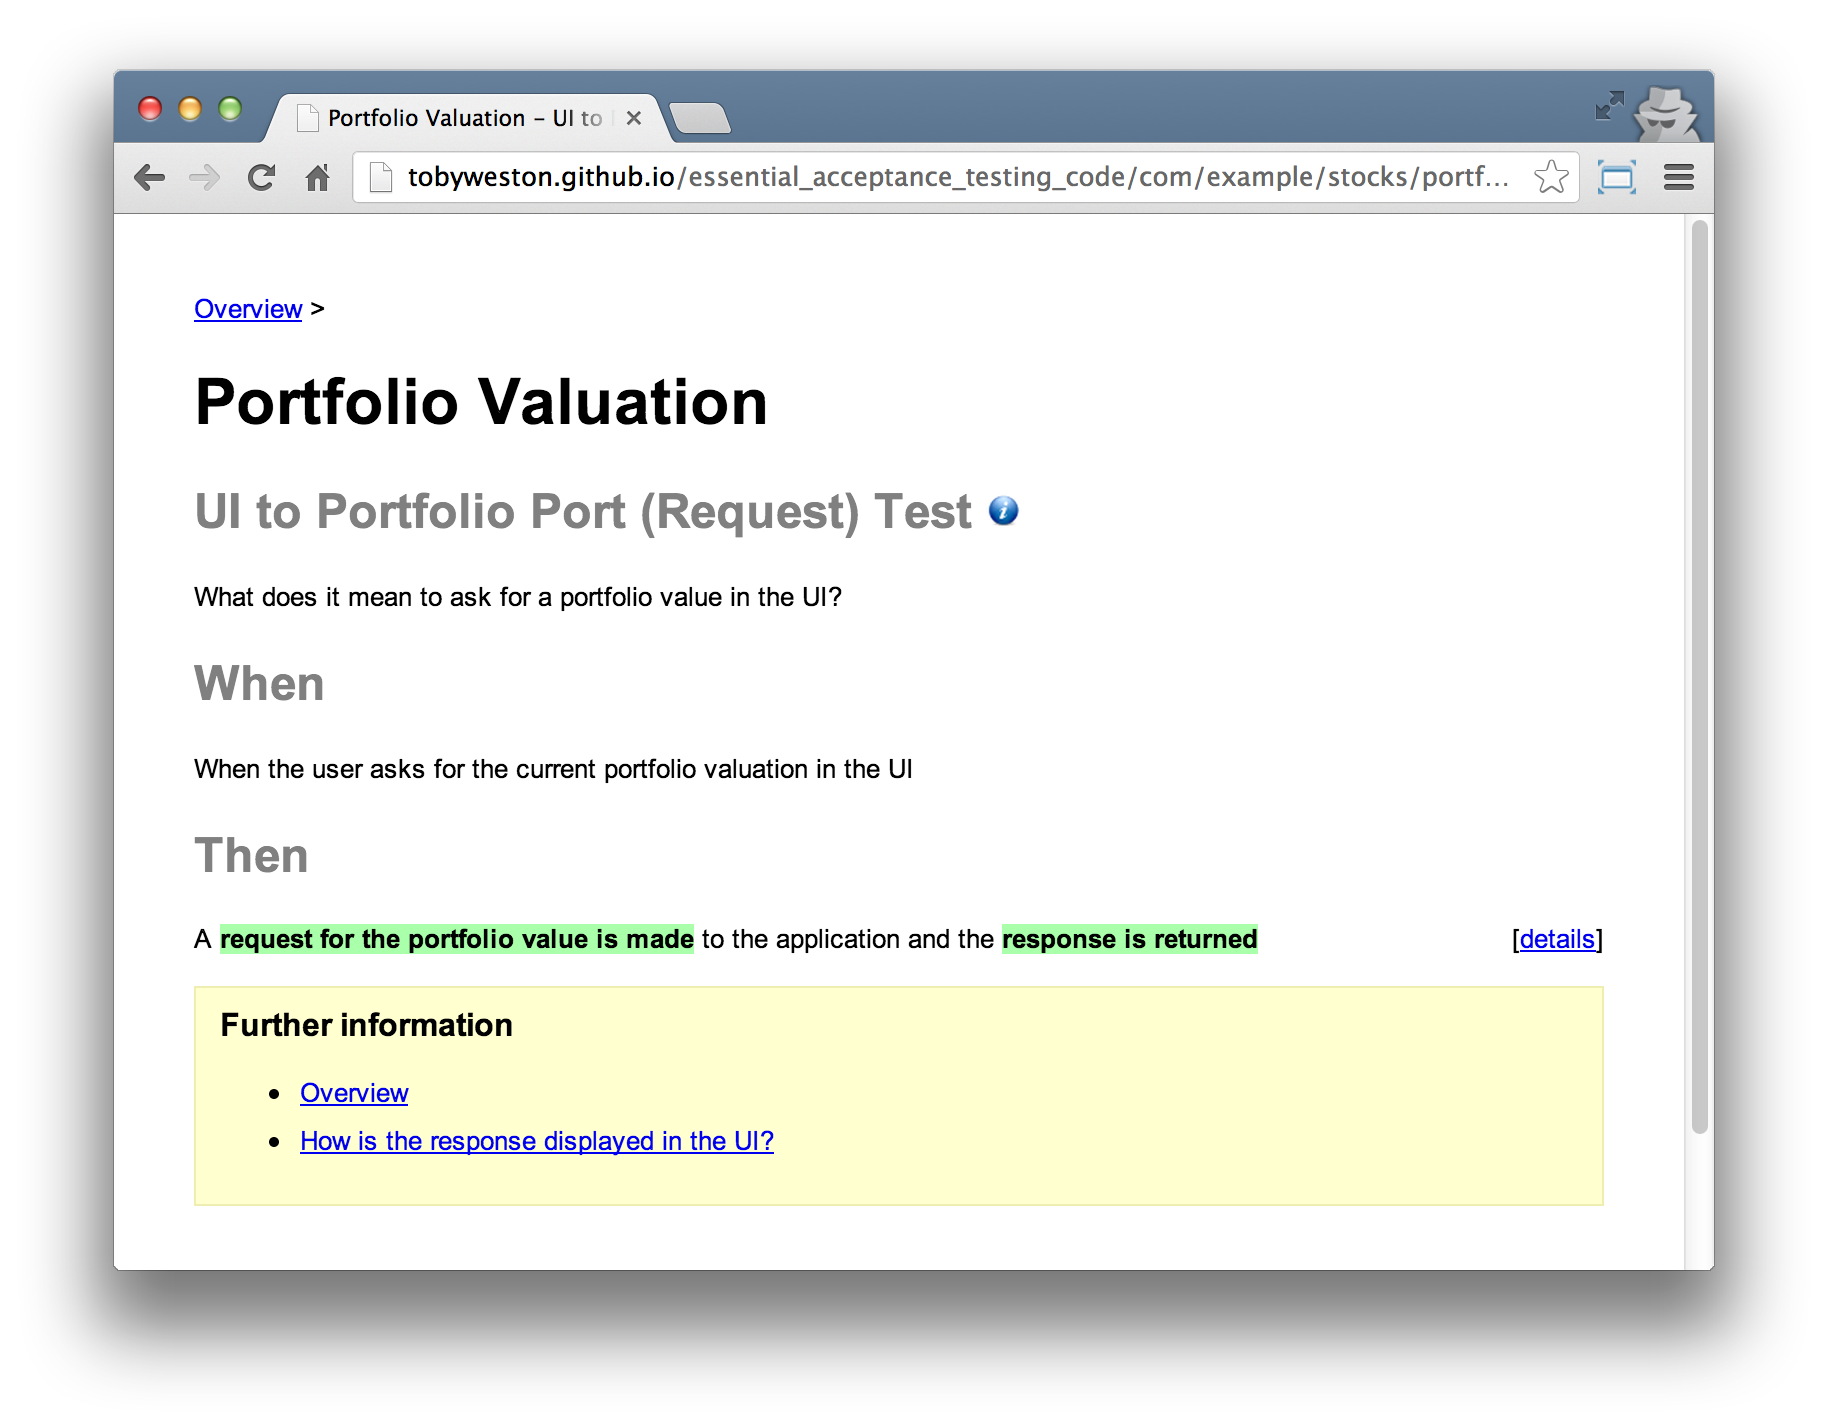
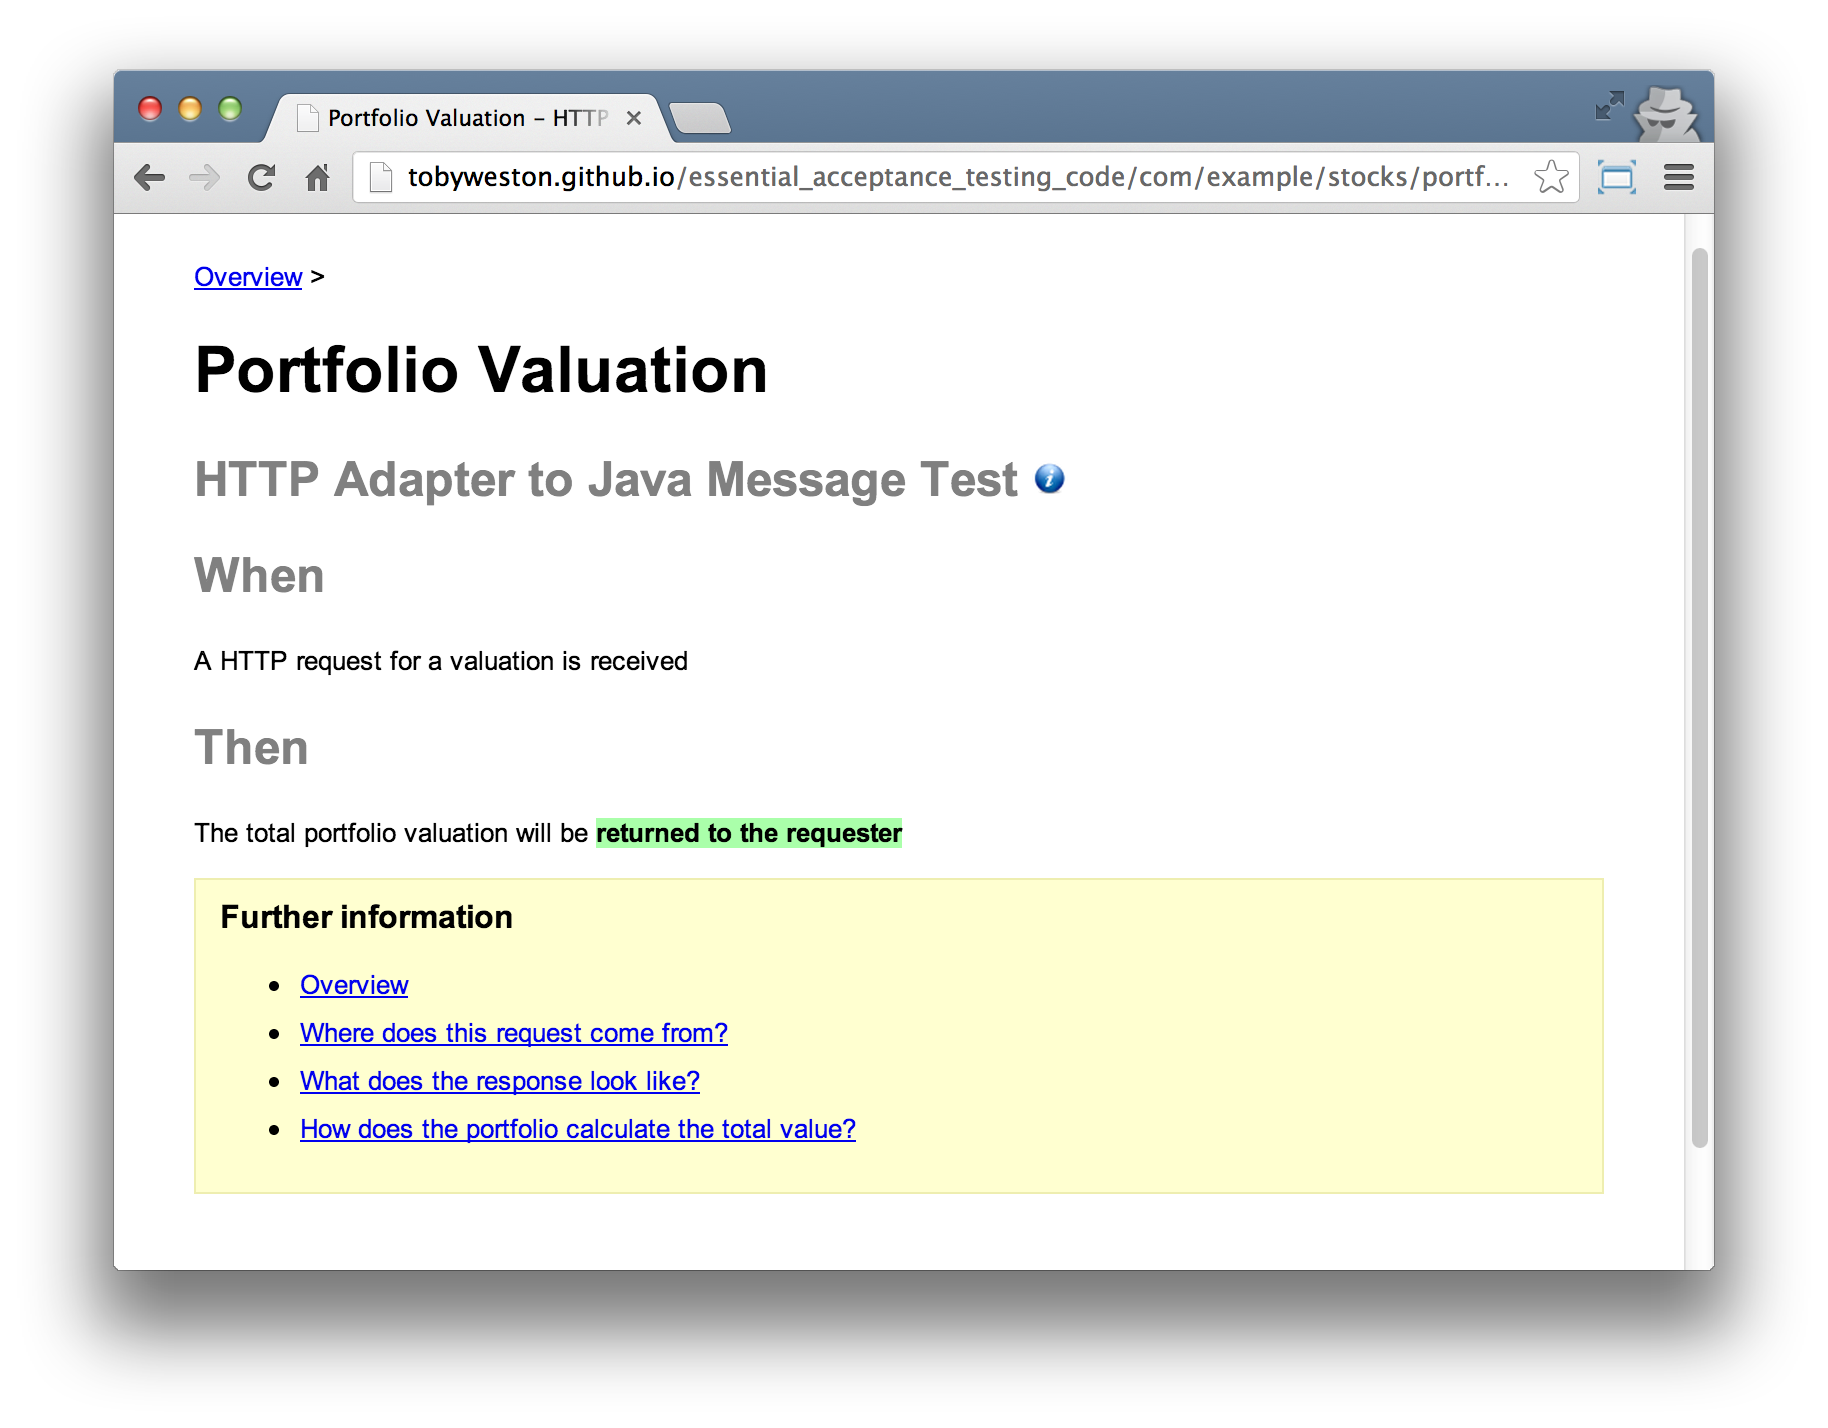
adding code and write up for tests

diff --git a/manuscript/part2/design.md b/manuscript/part2/design.md
@@ -321,11 +321,59 @@ Like the previous example, a canned response is setup (line 17) only this time, 
 
 Notice that in the specification result below, that the specifics of what it means for a request to be valid is ommitted. The language in the test talks in abstract terms about the request ("a request for the portfolio value is made"). This decouples the specification language from the implementation and attempts to move towards a more business appropriate use of langauge.
 
-![](images/part2/design.md/test-portfolio-valuation-specification-result.png)
+![](images/part2/design.md/test-ui-to-portfolio-specification-result.png)
+
 
 
 ### HTTP Adapter to Java message tests
 
+Once we're satisfied about the communication between UI and `Portfolio`, we can look at the behaviour of the `Portfolio` part of the domain model. This part of the domain model is responsible for exposing the valuation request port. This port is implemented by a HTTP adapter to create a RESTful endpoint. It turns the HTTP call into a Java API call so our tests should exercise this adaptation.
+
+![](images/part2/design.md/test-portfolio-valuation.png)
+
+An important point to make right off the bat is that these tests will assume that the RESTful infrastructure is or will be tested elsewhere. Rather than start up a HTTP server, configure RESTful endpoints and make a real HTTP client request, the tests will work with underlying components directly. This separates the configuration and infrastructure (of the HTTP server) from the behaviour (the business logic classes).
+
+In concrete Java terms, you can think of this as not testing a JEE container's servlet configuration but instead testing a `Servlet` directly. We assume the web containers work and thin slices of configuration will be tested in subsequent tests (see later). Starting up a full container for multiple business scenarios can be wasteful when they exercise the same infrastructure scenarios again and again.
+
+
+
+#### Example
+
+So, our example specification might look like this.
+
+A> When a HTTP request for a valuation is received
+A>
+A> Then the total portfolio valuation will be returned to the requester
+
+With a corresponding fixture used to verify the HTTP adapter works with domain model components as intended.
+
+{title="Example 5: Test fixture for the Portfolio's port HTTP adapter", lang="java", line-numbers="on"}
+~~~~~~~
+@RunWith(ConcordionRunner.class)
+@ExpectedToPass
+public class PortfolioValuationTest {
+    private final Mockery context = new JUnit4Mockery();
+
+    private final Valuation valuation = context.mock(Valuation.class);
+    private final PortfolioResource portfolio = new PortfolioResource(valuation);
+
+    public boolean verifyValuationResponse() {
+        context.checking(new Expectations() {{
+            oneOf(valuation).value(); will(returnValue(new Money("100000.00")));
+        }});
+
+        Response response = portfolio.value(null);
+        assertThat(response.entity().toString(), is("100000.00"));
+        return true;
+    }
+}
+~~~~~~~
+
+The `PortfolioResource` class is the business logic component that should be accessed when a HTTP request is received. The RESTful framework used to route the `GET` call to this class is a JSR-311 framework called [Utterlyidle](https://code.google.com/p/utterlyidle/) running an embedded HTTP server. A common alternative is to use [Jersey](http://jersey.java.net/) running in an embedded [Jetty](http://www.eclipse.org/jetty/) (HTTP) server. Either way, we're not interested in testing these frameworks or their configuration in these tests.
+
+We're use JMock to implement our test double and simply verify that an object responsible for valuing a portfolio (`valuation`) is accessed and it's monetary return type is bundled in the HTTP `response` body. This may seem very much like a unit style test. That's because it is. It focuses narrowly on specific questions and can only be called an acceptance test because of the way its used (to give customer's confidence via the HTML output). There's nothing in our definition of an acceptance test that precludes it being written as a unit style test.
+
+![](images/part2/design.md/test-portfolio-valuation-specification-result.png)
 
 
 ### Portfolio calculation tests
